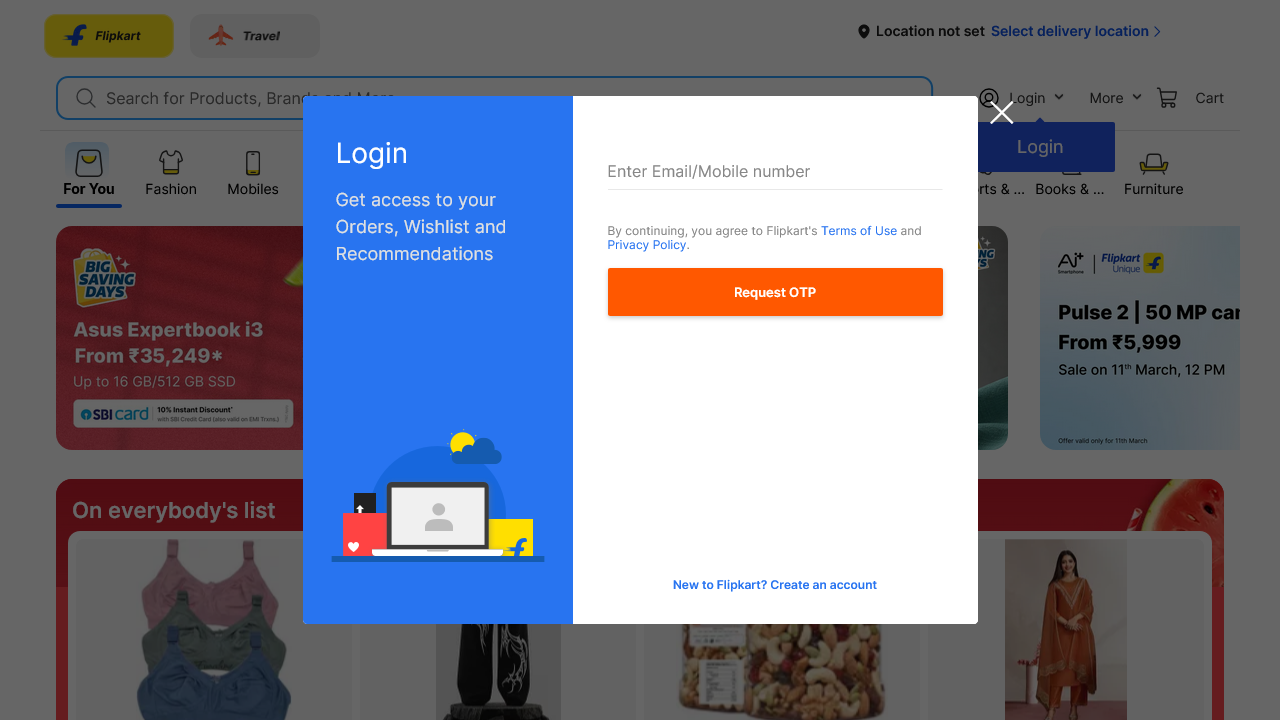
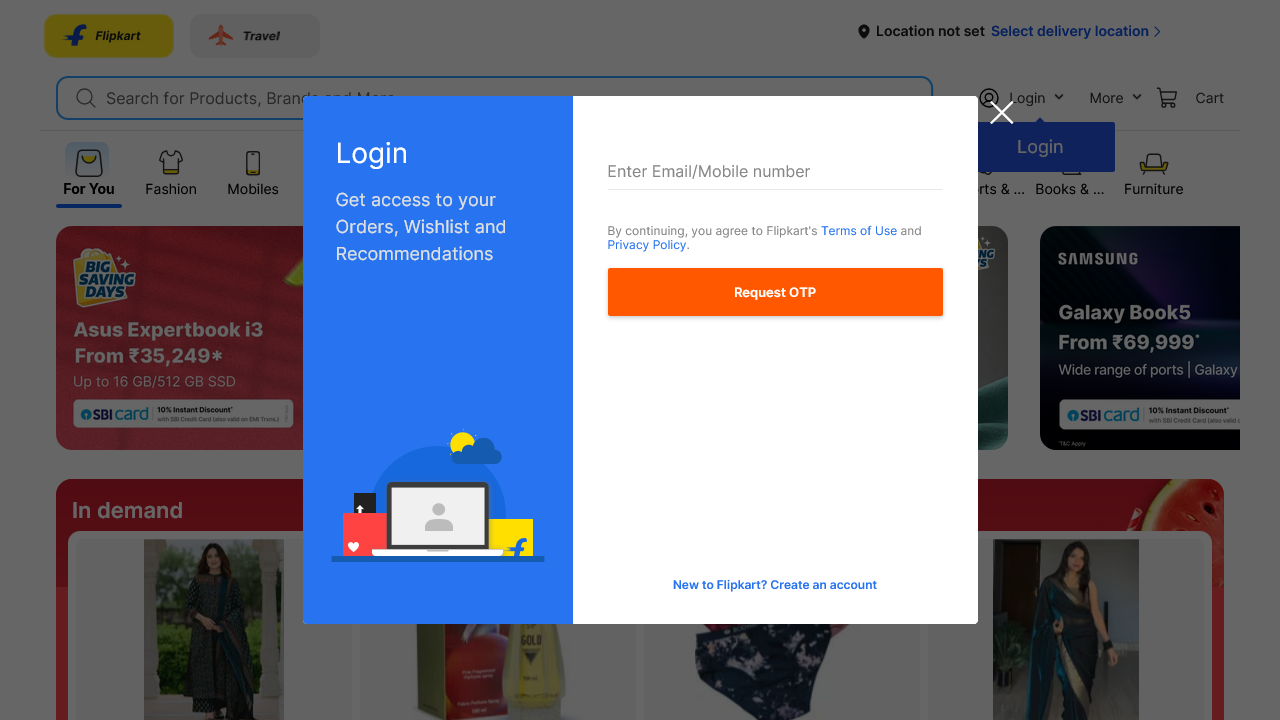
task uploaded

diff --git a/assessment(09-03-2026)/tests/task2.spec.ts b/assessment(09-03-2026)/tests/task2.spec.ts
@@ -8,7 +8,7 @@ test('task2',async({page})=>{
   const searching=page.locator('//input[@name="q"]').first();
   await searching.fill('shoes');
   await searching.press('Enter');
-  const womens=page.locator('//a[contains(translate(text(),"WOMEN","women"),"women")]');
+  const womens=page.locator('//a[contains(text(),"Women") or contains(text(),"WOMEN") or contains(text(),"women")]');
   await expect(womens.first()).toBeVisible();
   const count=await womens.count();
   await expect(count).toBeGreaterThan(0);
